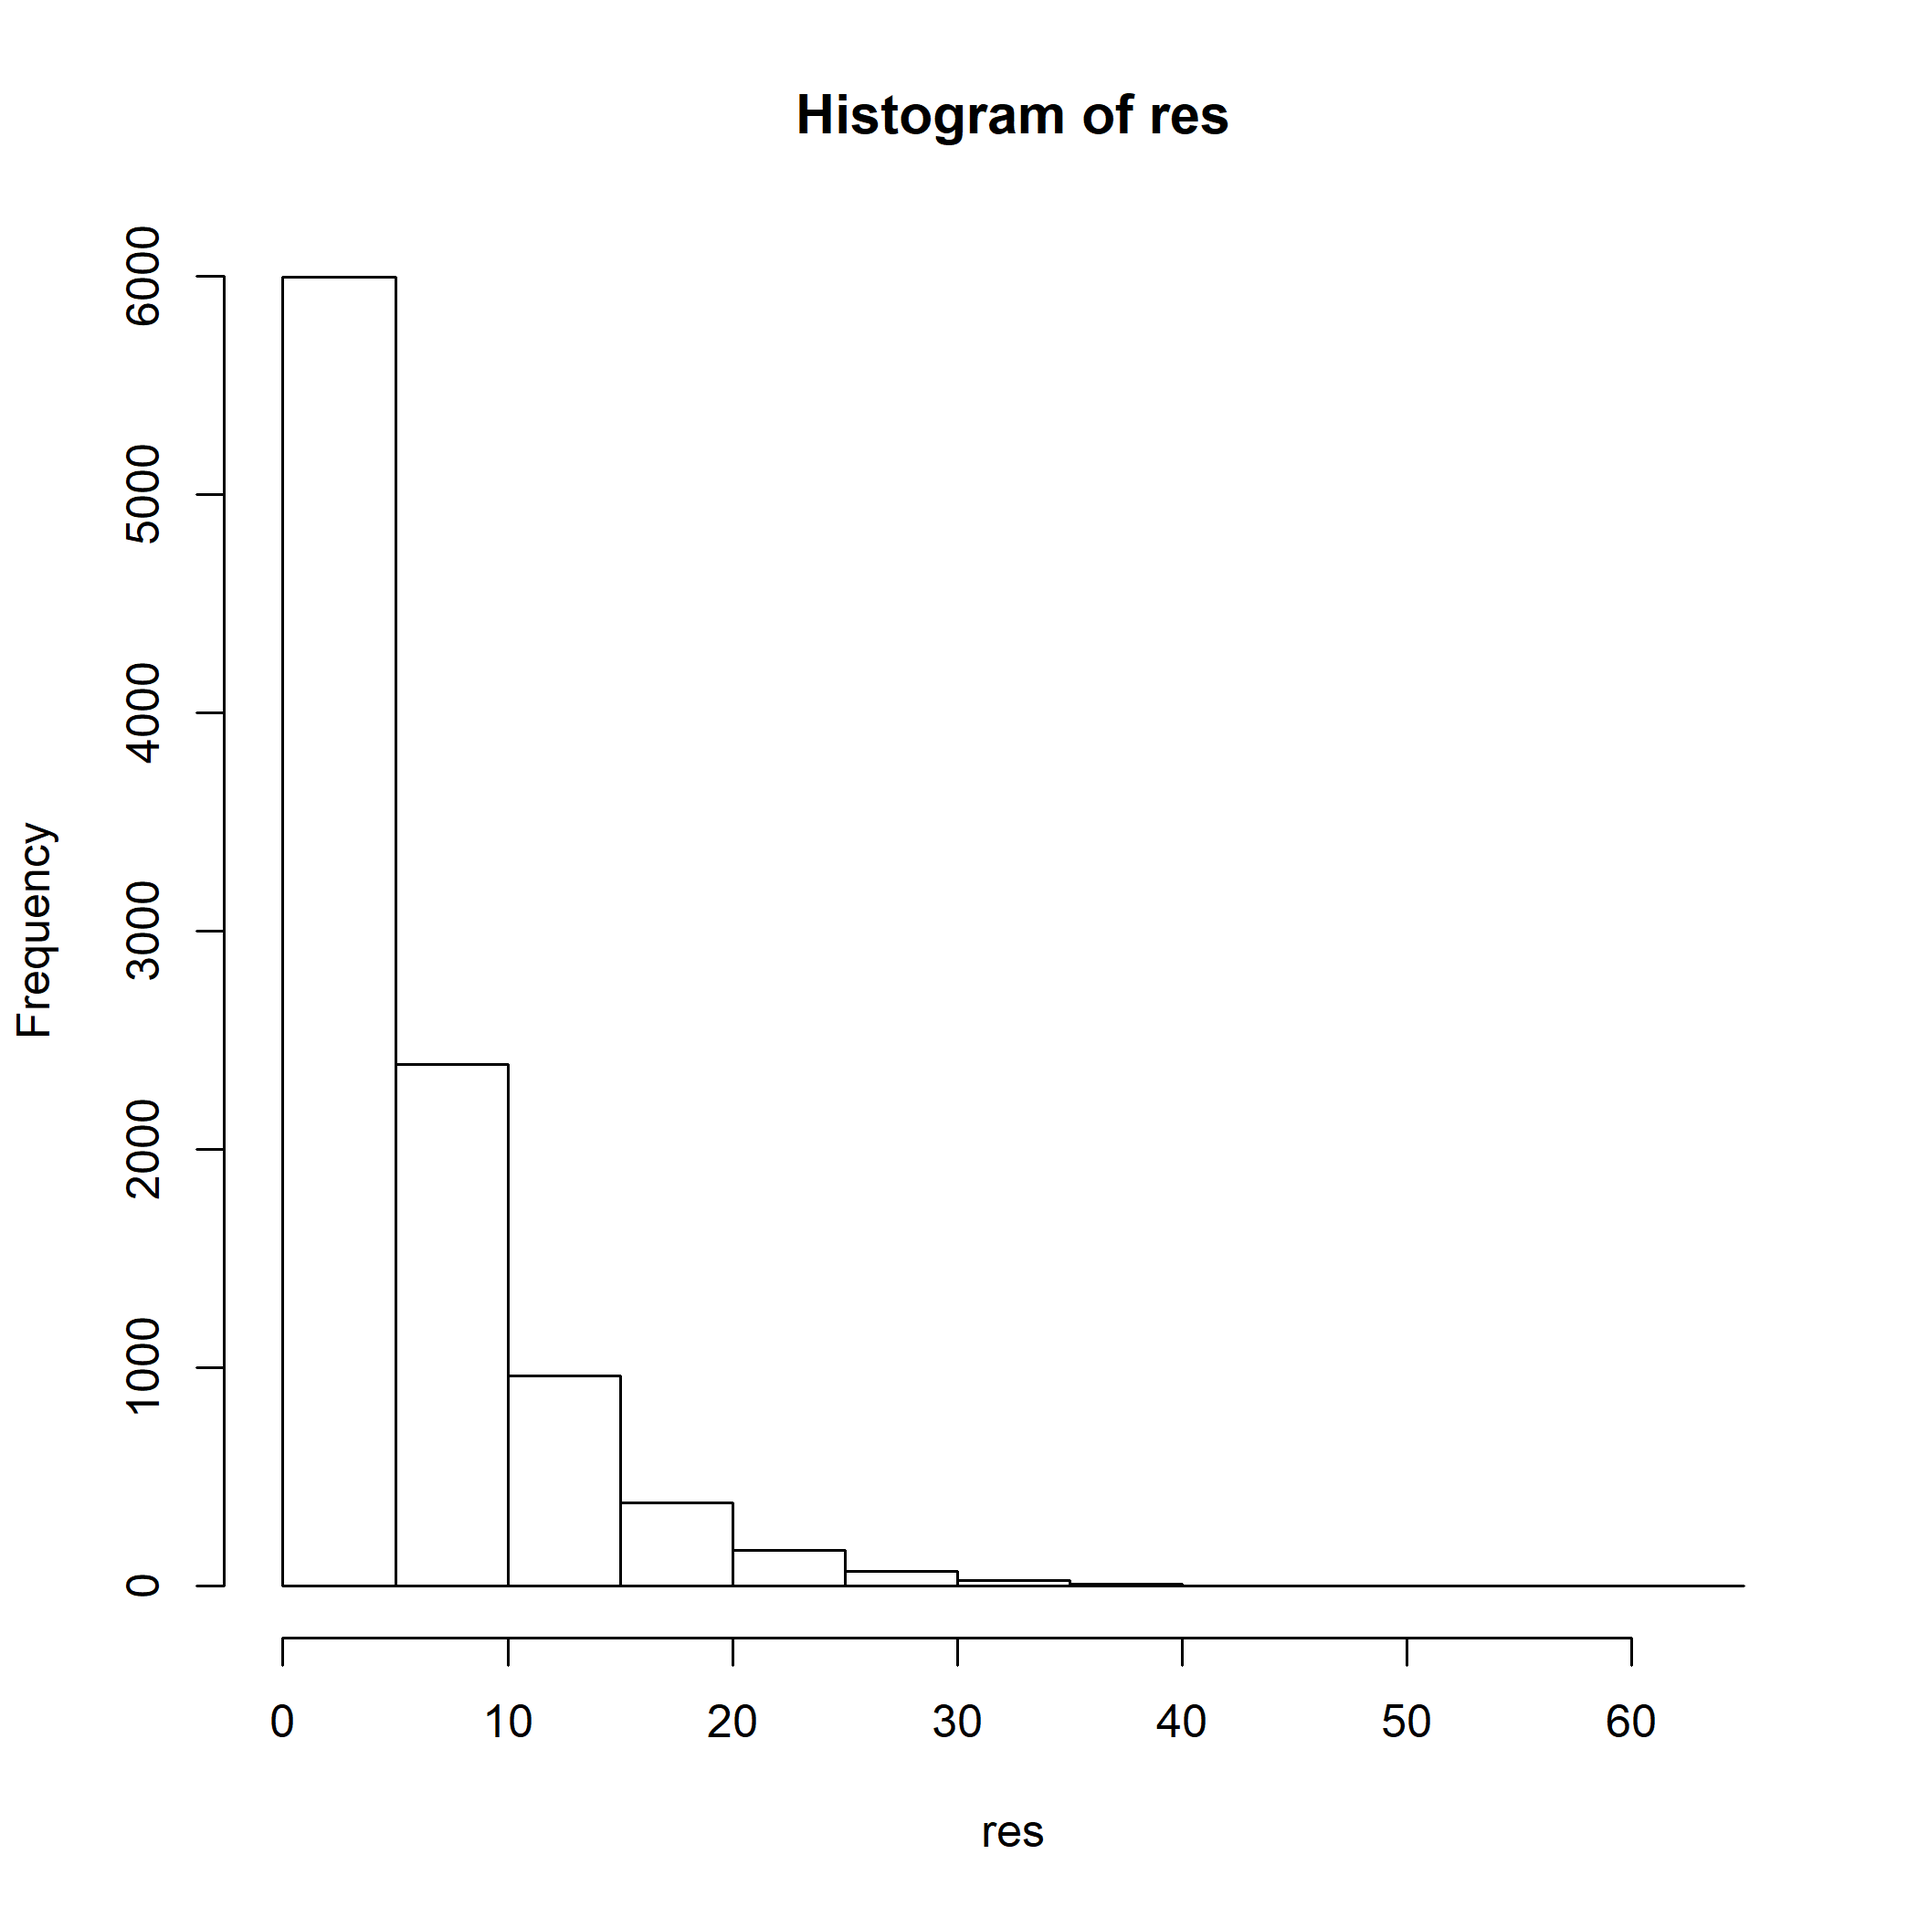
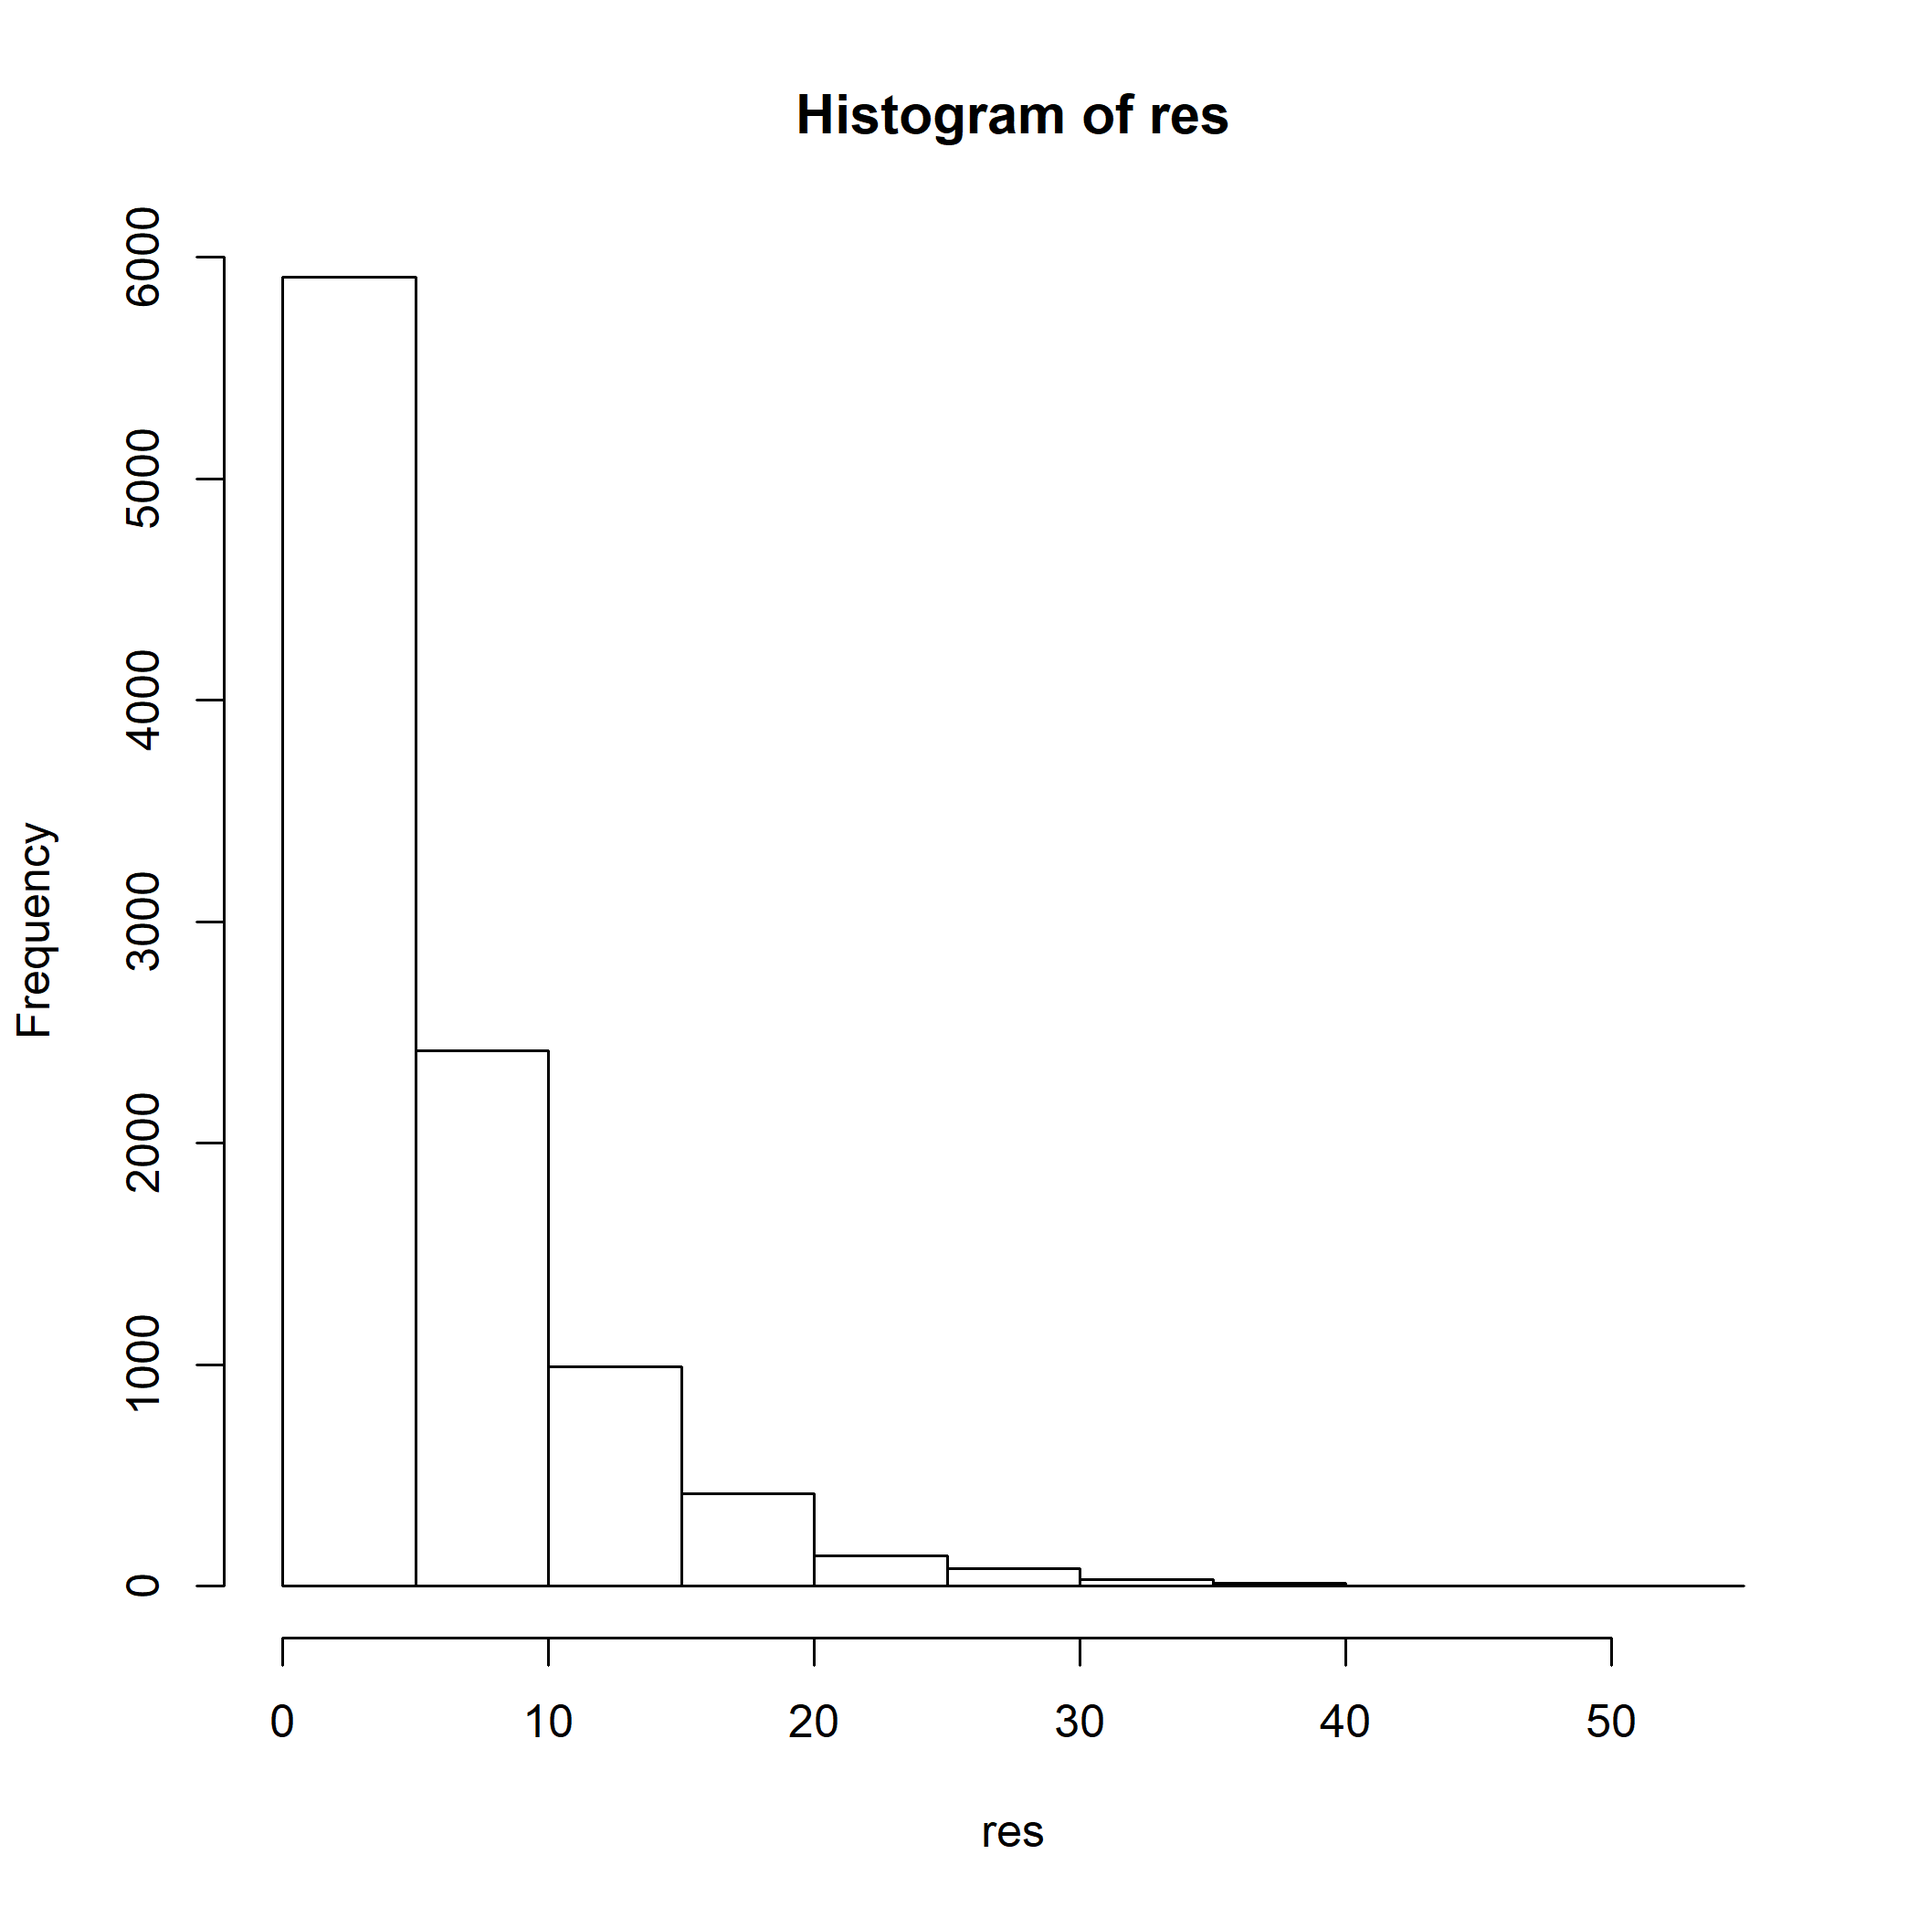
modif

diff --git a/Atelier_3/index.html b/Atelier_3/index.html
@@ -400,11 +400,11 @@ for(etape in 1:5) {
 ```
 
 ```
-## [1] 0.6158121
-## [1] 0.5863988
-## [1] 0.3180627
-## [1] 0.8860755
-## [1] 0.2987963
+## [1] 0.04470786
+## [1] 0.1141146
+## [1] 0.75354
+## [1] 0.1557368
+## [1] 0.09047478
 ```
 
 ---
@@ -590,8 +590,9 @@ while(combinaison != "pile-pile") {
 ```
 
 ```
+## [1] "pile-face"
 ## [1] "face-pile"
-## [1] "face-pile"
+## [1] "face-face"
 ## [1] "pile-pile"
 ```
 
@@ -632,7 +633,7 @@ mean(res)
 ```
 
 ```
-## [1] 5.973
+## [1] 6.0858
 ```
 
 ---
@@ -886,16 +887,16 @@ cbind(X,res)
 
 ```
 ##       X                    res         
-##  [1,] "0.409994543530047"  "plus grand"
-##  [2,] "0.873394962633029"  "plus grand"
-##  [3,] "0.877921387087554"  "plus grand"
-##  [4,] "0.196441349573433"  "plus petit"
-##  [5,] "0.208655615104362"  "plus petit"
-##  [6,] "0.0584785614628345" "plus petit"
-##  [7,] "0.150195871246979"  "plus petit"
-##  [8,] "0.53628365485929"   "plus grand"
-##  [9,] "0.257793715689331"  "plus petit"
-## [10,] "0.831322003854439"  "plus grand"
+##  [1,] "0.722105808788911"  "plus grand"
+##  [2,] "0.923543080221862"  "plus grand"
+##  [3,] "0.316879147198051"  "plus grand"
+##  [4,] "0.403958276379853"  "plus grand"
+##  [5,] "0.665428012609482"  "plus grand"
+##  [6,] "0.0904321612324566" "plus petit"
+##  [7,] "0.28217964945361"   "plus petit"
+##  [8,] "0.845719422446564"  "plus grand"
+##  [9,] "0.18083560350351"   "plus petit"
+## [10,] "0.780755208572373"  "plus grand"
 ```
 ]
 
@@ -950,16 +951,16 @@ cbind(X,res2)
 
 ```
 ##       X                    res2 
-##  [1,] "0.409994543530047"  "oui"
-##  [2,] "0.873394962633029"  "non"
-##  [3,] "0.877921387087554"  "non"
-##  [4,] "0.196441349573433"  "non"
-##  [5,] "0.208655615104362"  "oui"
-##  [6,] "0.0584785614628345" "non"
-##  [7,] "0.150195871246979"  "non"
-##  [8,] "0.53628365485929"   "oui"
-##  [9,] "0.257793715689331"  "oui"
-## [10,] "0.831322003854439"  "non"
+##  [1,] "0.722105808788911"  "non"
+##  [2,] "0.923543080221862"  "non"
+##  [3,] "0.316879147198051"  "oui"
+##  [4,] "0.403958276379853"  "oui"
+##  [5,] "0.665428012609482"  "non"
+##  [6,] "0.0904321612324566" "non"
+##  [7,] "0.28217964945361"   "oui"
+##  [8,] "0.845719422446564"  "non"
+##  [9,] "0.18083560350351"   "non"
+## [10,] "0.780755208572373"  "non"
 ```
 ]
 
@@ -986,16 +987,16 @@ cbind(X,res2)
 
 ```
 ##       X                    res2 
-##  [1,] "0.409994543530047"  "oui"
-##  [2,] "0.873394962633029"  "non"
-##  [3,] "0.877921387087554"  "non"
-##  [4,] "0.196441349573433"  "non"
-##  [5,] "0.208655615104362"  "oui"
-##  [6,] "0.0584785614628345" "non"
-##  [7,] "0.150195871246979"  "non"
-##  [8,] "0.53628365485929"   "oui"
-##  [9,] "0.257793715689331"  "oui"
-## [10,] "0.831322003854439"  "non"
+##  [1,] "0.722105808788911"  "non"
+##  [2,] "0.923543080221862"  "non"
+##  [3,] "0.316879147198051"  "oui"
+##  [4,] "0.403958276379853"  "oui"
+##  [5,] "0.665428012609482"  "non"
+##  [6,] "0.0904321612324566" "non"
+##  [7,] "0.28217964945361"   "oui"
+##  [8,] "0.845719422446564"  "non"
+##  [9,] "0.18083560350351"   "non"
+## [10,] "0.780755208572373"  "non"
 ```
 ]
 
@@ -1109,7 +1110,7 @@ tirage(3, cartes)
 ```
 
 ```
-## [1] "6 - carreau"   "10 - carreau"  "reine - pique"
+## [1] "8 - carreau" "7 - pique"   "2 - carreau"
 ```
 
 ---
@@ -1136,7 +1137,7 @@ res
 ```
 
 ```
-## [1] I U Z N M A C
+## [1] D R I N F T J
 ## Levels: A B C D F G H I J K L M N O P Q R S T U V W X Y Z
 ```
 
@@ -1210,7 +1211,7 @@ rbinom(n = 10, size = 1, prob = 0.5)
 ```
 
 ```
-##  [1] 0 0 1 1 0 1 1 1 1 0
+##  [1] 1 1 0 0 0 0 0 1 1 1
 ```
 ]
 
@@ -1233,12 +1234,12 @@ rmultinom(n = 3, size = 1, prob = rep(1/6, 6))
 
 ```
 ##      [,1] [,2] [,3]
-## [1,]    0    0    0
-## [2,]    0    0    0
-## [3,]    0    0    0
+## [1,]    0    0    1
+## [2,]    1    0    0
+## [3,]    0    1    0
 ## [4,]    0    0    0
-## [5,]    1    0    1
-## [6,]    0    1    0
+## [5,]    0    0    0
+## [6,]    0    0    0
 ```
 ]
 
@@ -1738,7 +1739,7 @@ system.time(tri(x))
 
 ```
 ##    user  system elapsed 
-##    0.26    0.00    0.26
+##    0.25    0.00    0.25
 ```
 
 ---
@@ -1807,7 +1808,7 @@ system.time(f2(x))
 
 ```
 ##    user  system elapsed 
-##    0.01    0.00    0.01
+##    0.02    0.00    0.02
 ```
 ]
 
@@ -1849,7 +1850,7 @@ system.time(f1(X))
 ##    user  system elapsed 
 ##       0       0       0 
 ##    user  system elapsed 
-##       0       0       0
+##    0.01    0.00    0.01
 ```
 ]
 
